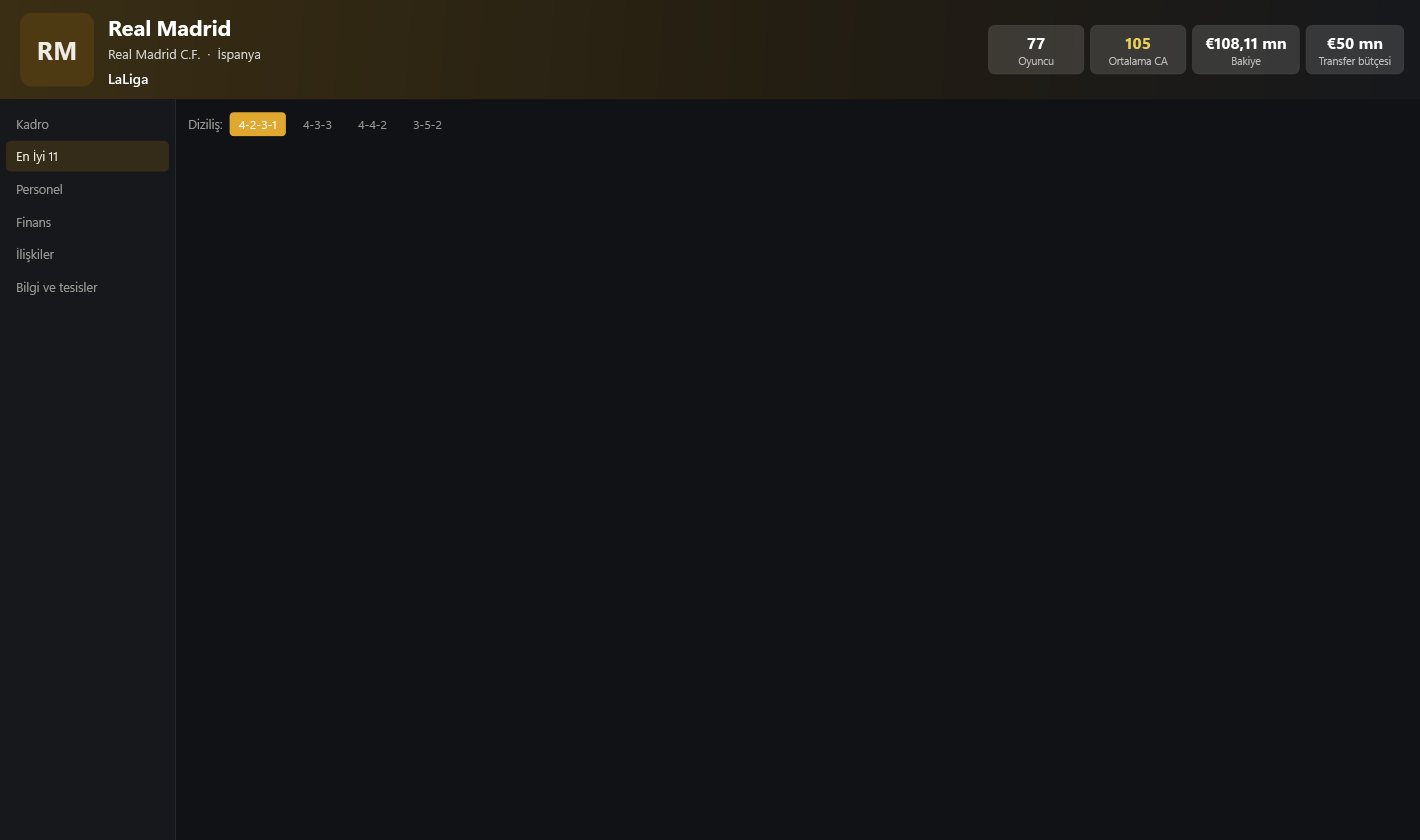
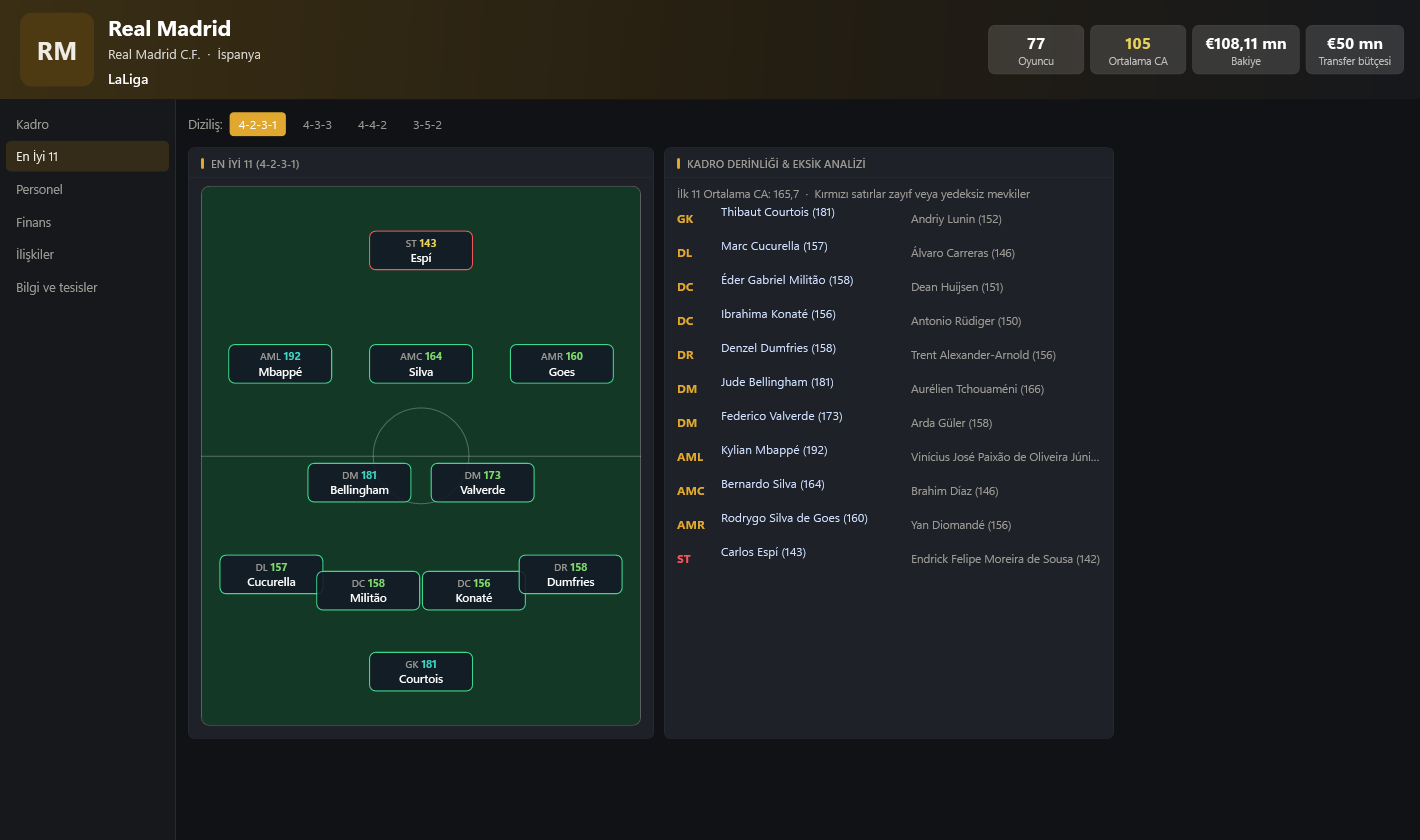
fix(bestxi) & feat(web): render Best XI immediately, add 8-tab showcase bar with DB/Finances/Best XI HD shots, and wire GitHub Release download

diff --git a/website/index.html b/website/index.html
@@ -278,45 +278,44 @@
     .showcase-bar {
       display: flex;
       align-items: center;
-      justify-content: space-between;
-      padding: 12px 16px;
+      justify-content: center;
+      padding: 10px 14px;
       border-bottom: 1px solid var(--line);
-      gap: 12px;
-      flex-wrap: wrap;
+      background: var(--surface);
+      overflow-x: auto;
+      scrollbar-width: none;
     }
+    .showcase-bar::-webkit-scrollbar { display: none; }
     .slide-tabs {
-      display: flex;
-      gap: 6px;
-      flex-wrap: wrap;
+      display: inline-flex;
+      align-items: center;
+      gap: 4px;
+      background: var(--surface-soft);
+      padding: 4px;
+      border-radius: 10px;
+      border: 1px solid var(--line);
+      flex-wrap: nowrap;
     }
     .slide-tab {
       background: transparent;
       border: 1px solid transparent;
-      color: var(--ink-3);
+      color: var(--ink-2);
       font-family: var(--sans);
-      font-size: 13px;
+      font-size: 12.5px;
       font-weight: 500;
-      padding: 6px 12px;
+      padding: 6px 11px;
       border-radius: 7px;
       cursor: pointer;
+      white-space: nowrap;
       transition: all 0.15s;
     }
     .slide-tab:hover { color: var(--ink); }
     .slide-tab.active {
-      background: var(--surface-soft);
+      background: var(--surface);
       border-color: var(--line);
       color: var(--ink);
       font-weight: 600;
-    }
-    .slide-controls {
-      display: flex;
-      align-items: center;
-      gap: 6px;
-    }
-    .slide-caption {
-      font-size: 12.5px;
-      color: var(--ink-3);
-      margin-right: 6px;
+      box-shadow: 0 1px 3px rgba(0, 0, 0, 0.08);
     }
     .stage {
       position: relative;
@@ -325,7 +324,7 @@
       display: flex;
       align-items: center;
       justify-content: center;
-      padding: 20px;
+      padding: 18px;
       overflow: hidden;
       cursor: zoom-in;
     }
@@ -342,21 +341,6 @@
       opacity: 0;
       transform: scale(0.985);
     }
-    .zoom-hint {
-      position: absolute;
-      right: 16px;
-      bottom: 14px;
-      display: inline-flex;
-      align-items: center;
-      gap: 6px;
-      padding: 5px 10px;
-      border-radius: 7px;
-      background: rgba(14, 16, 20, 0.72);
-      color: #f3f5f8;
-      font-size: 12px;
-      pointer-events: none;
-    }
-    .zoom-hint svg.ic { width: 14px; height: 14px; }
     .progress-track {
       height: 3px;
       background: var(--line);
@@ -368,6 +352,58 @@
       background: var(--accent);
       transition: width 0.1s linear;
     }
+    .showcase-foot {
+      display: flex;
+      align-items: center;
+      justify-content: space-between;
+      padding: 10px 16px;
+      border-top: 1px solid var(--line);
+      background: var(--surface);
+      gap: 12px;
+      flex-wrap: wrap;
+    }
+    .slide-meta {
+      display: inline-flex;
+      align-items: center;
+      gap: 10px;
+      font-size: 13px;
+      color: var(--ink-2);
+    }
+    .slide-count {
+      font-size: 11.5px;
+      font-weight: 600;
+      color: var(--ink-3);
+      background: var(--surface-soft);
+      border: 1px solid var(--line);
+      padding: 2px 8px;
+      border-radius: 999px;
+    }
+    .slide-controls {
+      display: inline-flex;
+      align-items: center;
+      gap: 6px;
+    }
+    .zoom-btn {
+      display: inline-flex;
+      align-items: center;
+      gap: 6px;
+      height: 34px;
+      padding: 0 11px;
+      border-radius: 8px;
+      border: 1px solid var(--line);
+      background: var(--surface);
+      color: var(--ink-2);
+      font-family: var(--sans);
+      font-size: 12.5px;
+      font-weight: 500;
+      cursor: pointer;
+      transition: all 0.15s;
+    }
+    .zoom-btn:hover {
+      border-color: var(--line-strong);
+      color: var(--ink);
+    }
+    .zoom-btn svg.ic { width: 15px; height: 15px; }
 
     /* Lightbox Modal */
     .lightbox {
@@ -756,8 +792,21 @@
         <div class="showcase" id="showcase">
           <div class="showcase-bar">
             <div class="slide-tabs" id="slideTabs"></div>
+          </div>
+          <div class="stage" id="stageBox">
+            <img id="slideImg" src="./assets/shot_player_overview.png" alt="Squadeditor ekran görüntüsü" />
+          </div>
+          <div class="progress-track"><div class="progress-fill" id="progressFill"></div></div>
+          <div class="showcase-foot">
+            <div class="slide-meta">
+              <span class="slide-count" id="slideCount">1 / 8</span>
+              <span id="slideCaption"></span>
+            </div>
             <div class="slide-controls">
-              <span class="slide-caption" id="slideCaption"></span>
+              <button type="button" class="zoom-btn" id="zoomBtn">
+                <svg class="ic" viewBox="0 0 24 24"><circle cx="11" cy="11" r="8"/><path d="m21 21-4.3-4.3"/><line x1="11" y1="8" x2="11" y2="14"/><line x1="8" y1="11" x2="14" y2="11"/></svg>
+                <span data-i18n="zoom.hint">Büyüt</span>
+              </button>
               <button type="button" class="icon-btn" id="prevSlide" aria-label="Önceki">
                 <svg class="ic" viewBox="0 0 24 24"><polyline points="15 18 9 12 15 6"/></svg>
               </button>
@@ -766,14 +815,6 @@
               </button>
             </div>
           </div>
-          <div class="stage" id="stageBox">
-            <img id="slideImg" src="./assets/shot_player_overview.png" alt="Squadeditor ekran görüntüsü" />
-            <span class="zoom-hint">
-              <svg class="ic" viewBox="0 0 24 24"><circle cx="11" cy="11" r="8"/><path d="m21 21-4.3-4.3"/><line x1="11" y1="8" x2="11" y2="14"/><line x1="8" y1="11" x2="14" y2="11"/></svg>
-              <span data-i18n="zoom.hint">Büyütmek için tıklayın</span>
-            </span>
-          </div>
-          <div class="progress-track"><div class="progress-fill" id="progressFill"></div></div>
         </div>
       </div>
     </div>
@@ -1034,15 +1075,13 @@
     // =========================================================================
     const SITE_CONFIG = {
       version: "v1.0.0",
-      // GitHub Release oluşturunca direkt dosya linkini koyabilirsiniz:
-      // Örn: "https://github.com/basitbioyun/SquadEditor/releases/latest/download/SquadEditor.exe"
-      downloadUrl: "https://github.com/basitbioyun/SquadEditor/releases/latest",
-      repoUrl: "https://github.com/basitbioyun/SquadEditor",
+      downloadUrl: "https://github.com/yunusemreyilmaz93-pixel/SquadEditor/releases/latest/download/SquadEditor.exe",
+      repoUrl: "https://github.com/yunusemreyilmaz93-pixel/SquadEditor",
       socials: [
         { id: "x", label: "X (@basitbioyun)", url: "https://x.com/basitbioyun" },
         { id: "youtube", label: "YouTube", url: "https://youtube.com/@basitbioyun" },
         { id: "instagram", label: "Instagram", url: "https://instagram.com/basitbioyun" },
-        { id: "github", label: "GitHub", url: "https://github.com/basitbioyun/SquadEditor" }
+        { id: "github", label: "GitHub", url: "https://github.com/yunusemreyilmaz93-pixel/SquadEditor" }
       ]
     };
 
@@ -1068,14 +1107,16 @@
       { flag: "kr", name: "한국어" }
     ];
 
-    // 6 distinct high-res real screenshots in BOTH TR and EN
+    // 8 distinct high-res real screenshots in BOTH TR and EN
     const SLIDES = [
       { id: "overview", srcTr: "./assets/shot_player_overview.png", srcEn: "./assets/shot_player_overview_en.png", tr: "Oyuncu & Radar", en: "Player & Radar", capTr: "Canlı oyuncu profili, 8 eksenli radar, CA/PA çubuğu ve mevki sahası", capEn: "Live player profile, 8-axis radar, CA/PA bar & pitch map" },
-      { id: "bestxi", srcTr: "./assets/shot_club_bestxi.png", srcEn: "./assets/shot_club_bestxi_en.png", tr: "En İyi 11", en: "Best XI", capTr: "Kulüp En İyi 11 ve mevki derinliği saha görünümü", capEn: "Club Best XI & positional squad depth on pitch" },
+      { id: "home", srcTr: "./assets/shot_home_db.png", srcEn: "./assets/shot_home_db_en.png", tr: "Veritabanı", en: "Database", capTr: "Canlı oyuncu arama tablosu, Regen, Wonderkid ve uyruk filtreleri", capEn: "Live player database, Regen, Wonderkid & nationality filters" },
+      { id: "bestxi", srcTr: "./assets/shot_club_bestxi.png", srcEn: "./assets/shot_club_bestxi_en.png", tr: "En İyi 11", en: "Best XI", capTr: "Kulüp En İyi 11 dizilişi ve kadro derinliği eksik analizi", capEn: "Club Best XI pitch view & squad depth gap analysis" },
+      { id: "finances", srcTr: "./assets/shot_club_finances.png", srcEn: "./assets/shot_club_finances_en.png", tr: "Finans & Tesis", en: "Finances", capTr: "Bütçe, bakiye, zengin patron ve tek tıkla 20 tesis düzenleme", capEn: "Balance, budgets, rich owner & 1-click max facilities" },
       { id: "personal", srcTr: "./assets/shot_player_personal.png", srcEn: "./assets/shot_player_personal_en.png", tr: "Sözleşme & Uyruk", en: "Contract & Traits", capTr: "Sözleşme maddeleri, ikinci uyruk, diller ve tercih edilen hareketler", capEn: "Contract clauses, second nationalities, languages & player traits" },
-      { id: "relations", srcTr: "./assets/shot_club_relations.png", srcEn: "./assets/shot_club_relations_en.png", tr: "Kulüp İlişkileri", en: "Club Relations", capTr: "Canlı rakip kulüpler, efsaneler, ikonlar ve sevilmeyen kişiler", capEn: "Live rival clubs, club legends, icons & disliked personnel" },
-      { id: "staffLight", srcTr: "./assets/shot_light.png", srcEn: "./assets/shot_light_en.png", tr: "Personel (Açık Tema)", en: "Staff (Light Theme)", capTr: "Açık tema · 5★ Antrenör & Teknik Direktörler Hariç filtresi", capEn: "Light theme · 5★ Coach & Hide Managers filter" },
-      { id: "multilang", srcTr: "./assets/shot_ja.png", srcEn: "./assets/shot_de.png", tr: "12 Dil (Örnek)", en: "12 Languages", capTr: "12 dilde eksiksiz FM terminolojisi (Japonca örneği)", capEn: "Authentic FM terminology in 12 languages (German example)" }
+      { id: "relations", srcTr: "./assets/shot_club_relations.png", srcEn: "./assets/shot_club_relations_en.png", tr: "İlişkiler", en: "Relations", capTr: "Canlı rakip kulüpler, efsaneler, ikonlar ve sevilmeyen kişiler", capEn: "Live rival clubs, club legends, icons & disliked personnel" },
+      { id: "staffLight", srcTr: "./assets/shot_light.png", srcEn: "./assets/shot_light_en.png", tr: "Personel (Açık)", en: "Staff (Light)", capTr: "Açık tema · 5★ Antrenör & Teknik Direktörler Hariç filtresi", capEn: "Light theme · 5★ Coach & Hide Managers filter" },
+      { id: "multilang", srcTr: "./assets/shot_ja.png", srcEn: "./assets/shot_de.png", tr: "12 Dil", en: "12 Languages", capTr: "12 dilde eksiksiz FM terminolojisi (Japonca örneği)", capEn: "Authentic FM terminology in 12 languages (German example)" }
     ];
 
     const I18N = {
@@ -1090,7 +1131,7 @@
         "hero.dl": "Windows için Ücretsiz İndir", "hero.explore": "Tüm Özelliklere Bak",
         "hero.note": "Kurulum gerektirmez, tek dosya olarak çalışır.",
         "trust.source": "Kaynak Kodu (GitHub)", "trust.smartscreen": "İlk açılışta SmartScreen uyarısı normaldir",
-        "zoom.hint": "Büyütmek için tıklayın",
+        "zoom.hint": "Büyüt",
         "feat.h": "Bir editörden ve scout aracından beklediğiniz her şey.",
         "feat.p": "Oyuncu aramadan personel transferine, kulüp tesislerinden canlı tema geçişine kadar tüm araçlar tek çatı altında.",
         "g1.h": "Oyuncu Arama & Scout",
@@ -1143,7 +1184,7 @@
         "hero.dl": "Download Free for Windows", "hero.explore": "Explore All Features",
         "hero.note": "No installer required, runs as a single file.",
         "trust.source": "Source Code (GitHub)", "trust.smartscreen": "SmartScreen notice on first run is normal",
-        "zoom.hint": "Click to zoom",
+        "zoom.hint": "Zoom",
         "feat.h": "Everything you expect from a real-time editor and scout.",
         "feat.p": "From player scouting and role-based staff hiring to club facilities and live theme switching — all in one fast app.",
         "g1.h": "Player Search & Scouting",
@@ -1211,6 +1252,7 @@
       tabs.querySelectorAll(".slide-tab").forEach(b => b.addEventListener("click", () => goSlide(Number(b.dataset.idx))));
       const cur = SLIDES[slideIdx];
       const nextSrc = lang === "tr" ? cur.srcTr : cur.srcEn;
+      document.getElementById("slideCount").textContent = `${slideIdx + 1} / ${SLIDES.length}`;
       document.getElementById("slideCaption").textContent = lang === "tr" ? cur.capTr : cur.capEn;
       const img = document.getElementById("slideImg");
       if (img.getAttribute("src") !== nextSrc) {
@@ -1274,12 +1316,14 @@
     // Lightbox
     const lb = document.getElementById("lightbox");
     const lbImg = document.getElementById("lightboxImg");
-    document.getElementById("stageBox").addEventListener("click", () => {
+    function openLightbox() {
       lbImg.src = document.getElementById("slideImg").src;
       lbImg.alt = document.getElementById("slideImg").alt;
       lb.classList.add("open");
       paused = true;
-    });
+    }
+    document.getElementById("stageBox").addEventListener("click", openLightbox);
+    document.getElementById("zoomBtn").addEventListener("click", openLightbox);
     lb.addEventListener("click", () => { lb.classList.remove("open"); paused = false; });
     document.addEventListener("keydown", e => { if (e.key === "Escape" && lb.classList.contains("open")) { lb.classList.remove("open"); paused = false; } });
 

diff --git a/src/SquadEditor.App/SquadEditor.App/Ui/FazBFeatures.cs b/src/SquadEditor.App/SquadEditor.App/Ui/FazBFeatures.cs
@@ -348,6 +348,7 @@ public static class ClubBestXi
 			rb.Checked += (_, _) => Render(form);
 			bar.Children.Add(rb);
 		}
+		Render("4-2-3-1");
 
 		var dock = new DockPanel();
 		DockPanel.SetDock(bar, Dock.Top);
